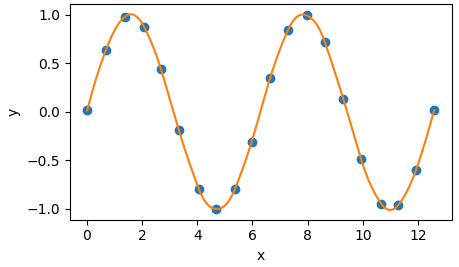
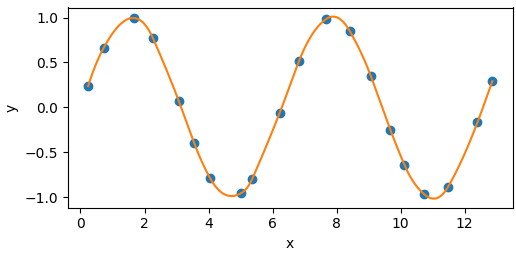
Increase non-uniformness of example data

Changed region(s): [[0.0, 0.0, 1.0, 0.9094], [0.549, 0.937, 0.5795, 0.9921]]

diff --git a/README.md b/README.md
@@ -4,7 +4,7 @@
 using PyPlot
 using CubicSplines
 
-xdata = range(0,stop=4pi,length=20) .+ 0.1rand(20)
+xdata = range(0,stop=4pi,length=20) .+ 0.5rand(20)
 ydata = sin.(xdata)
 plot(xdata, ydata, "o")
 
